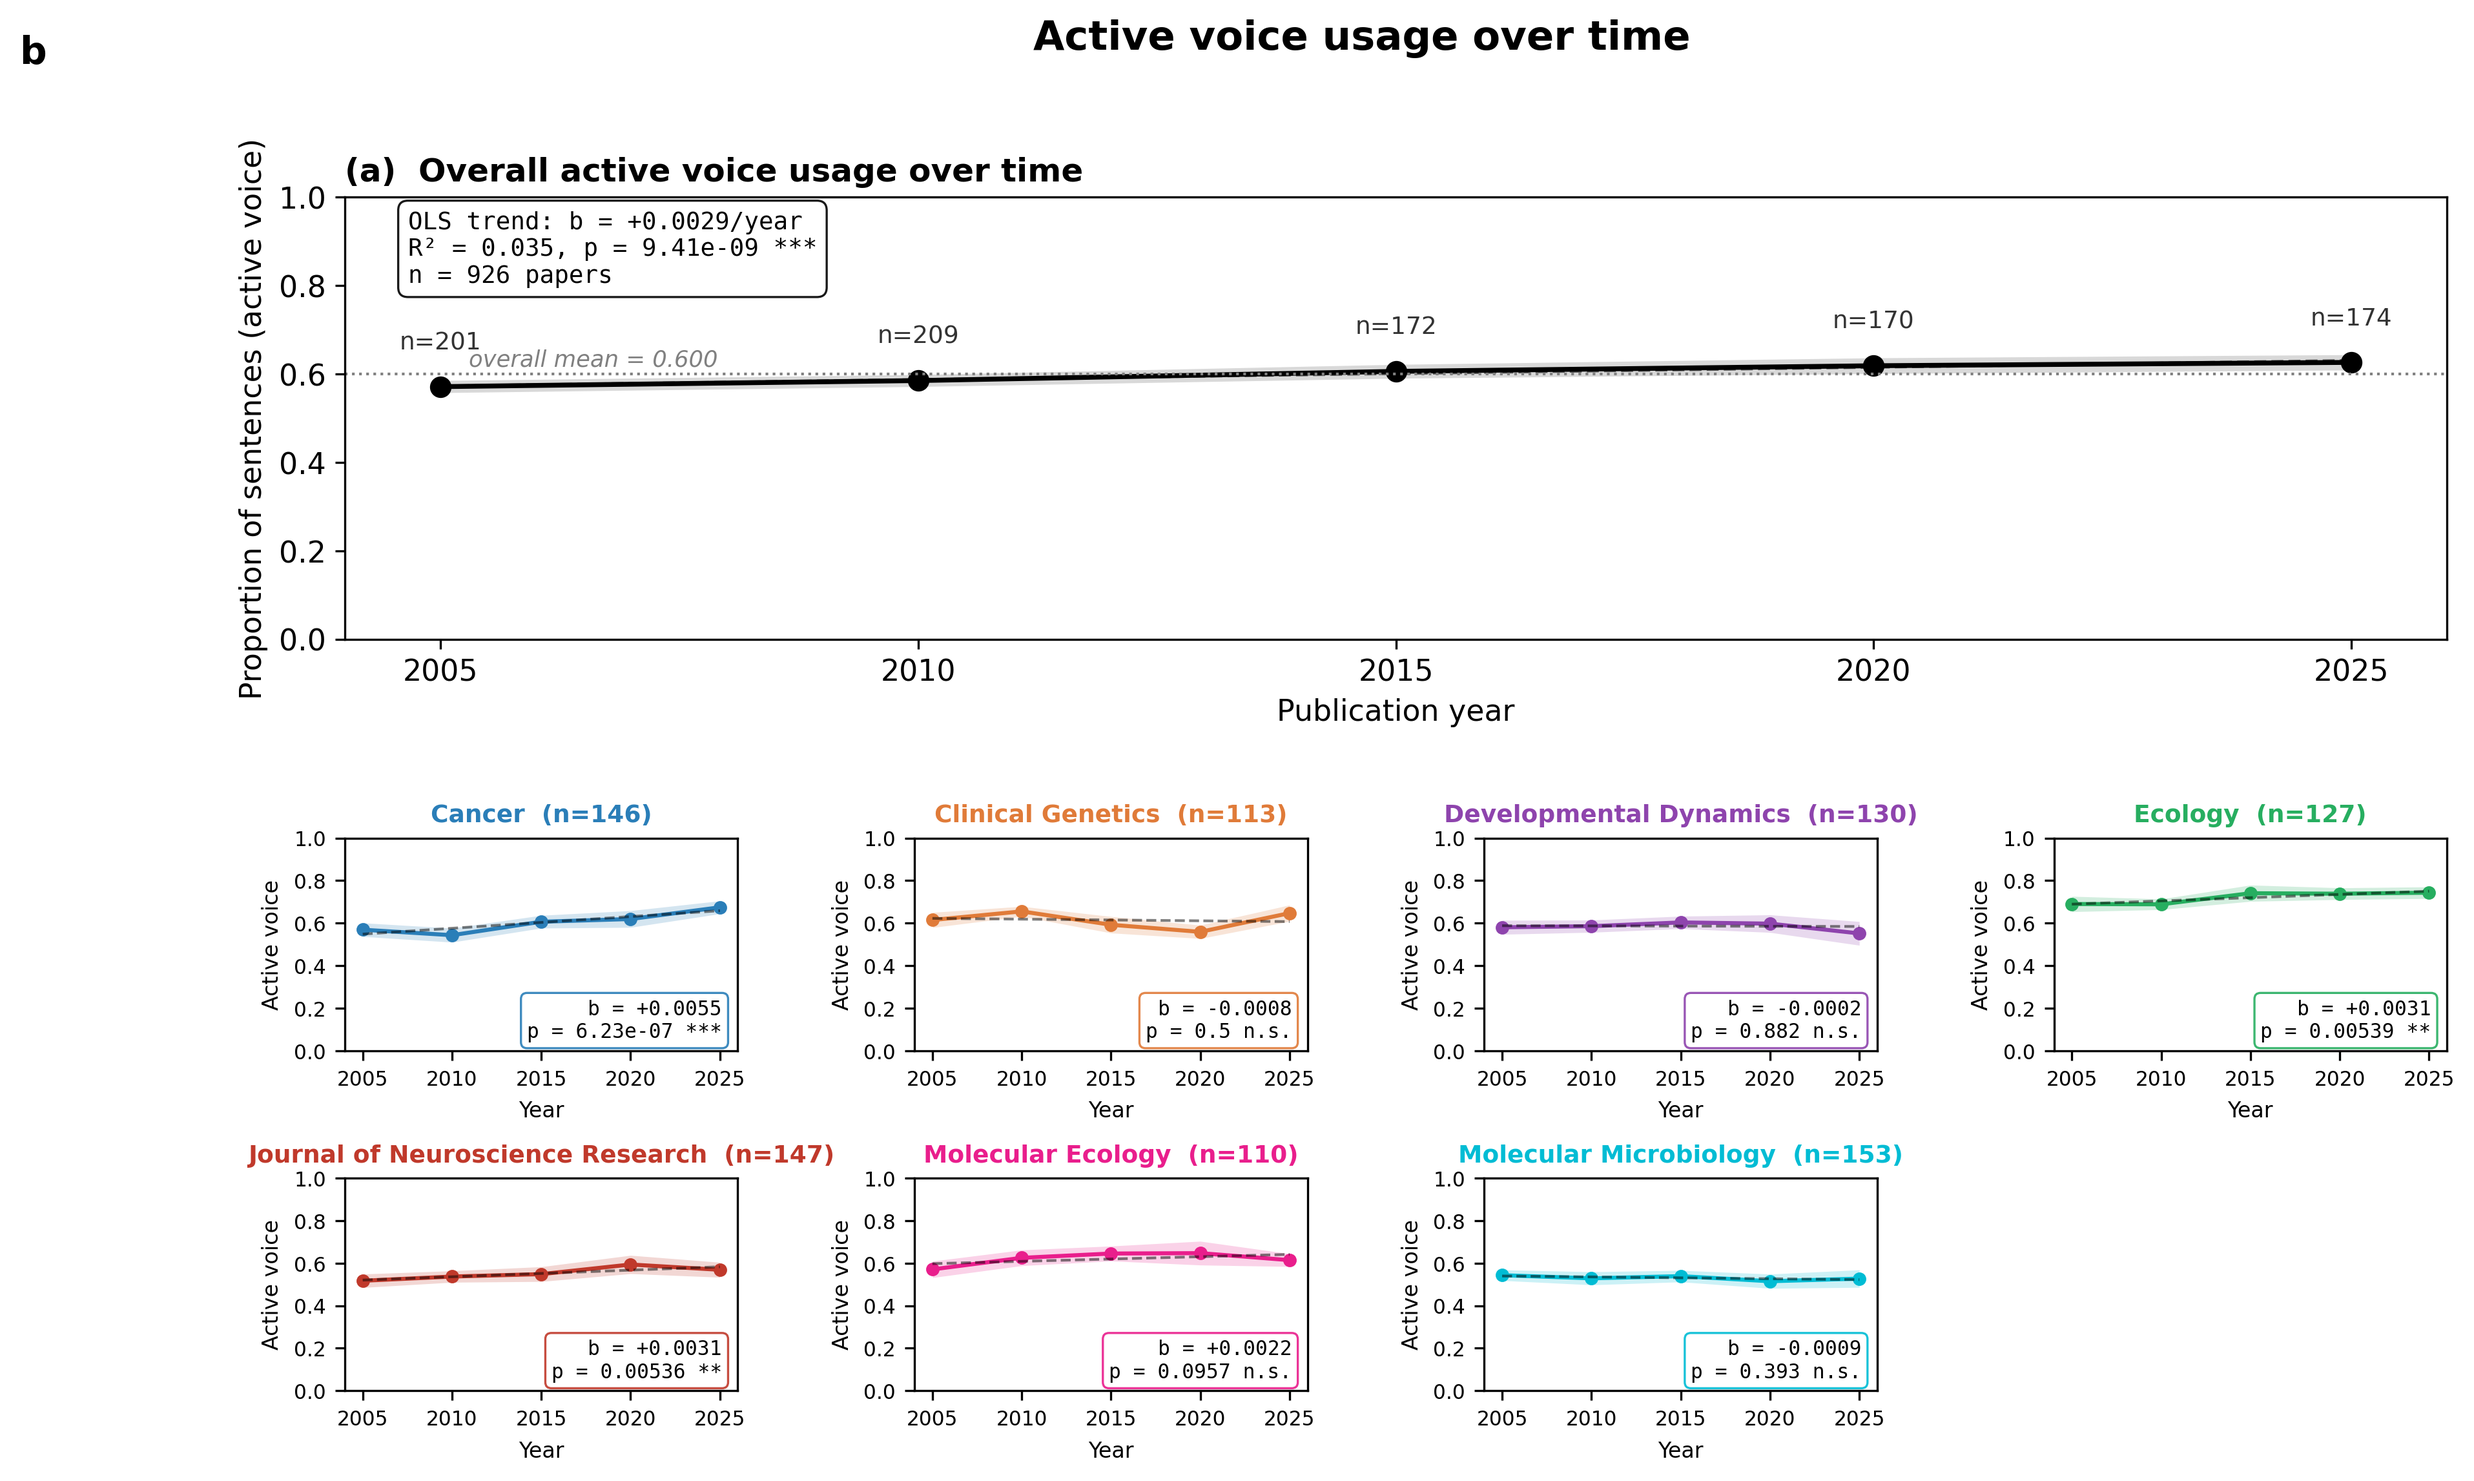
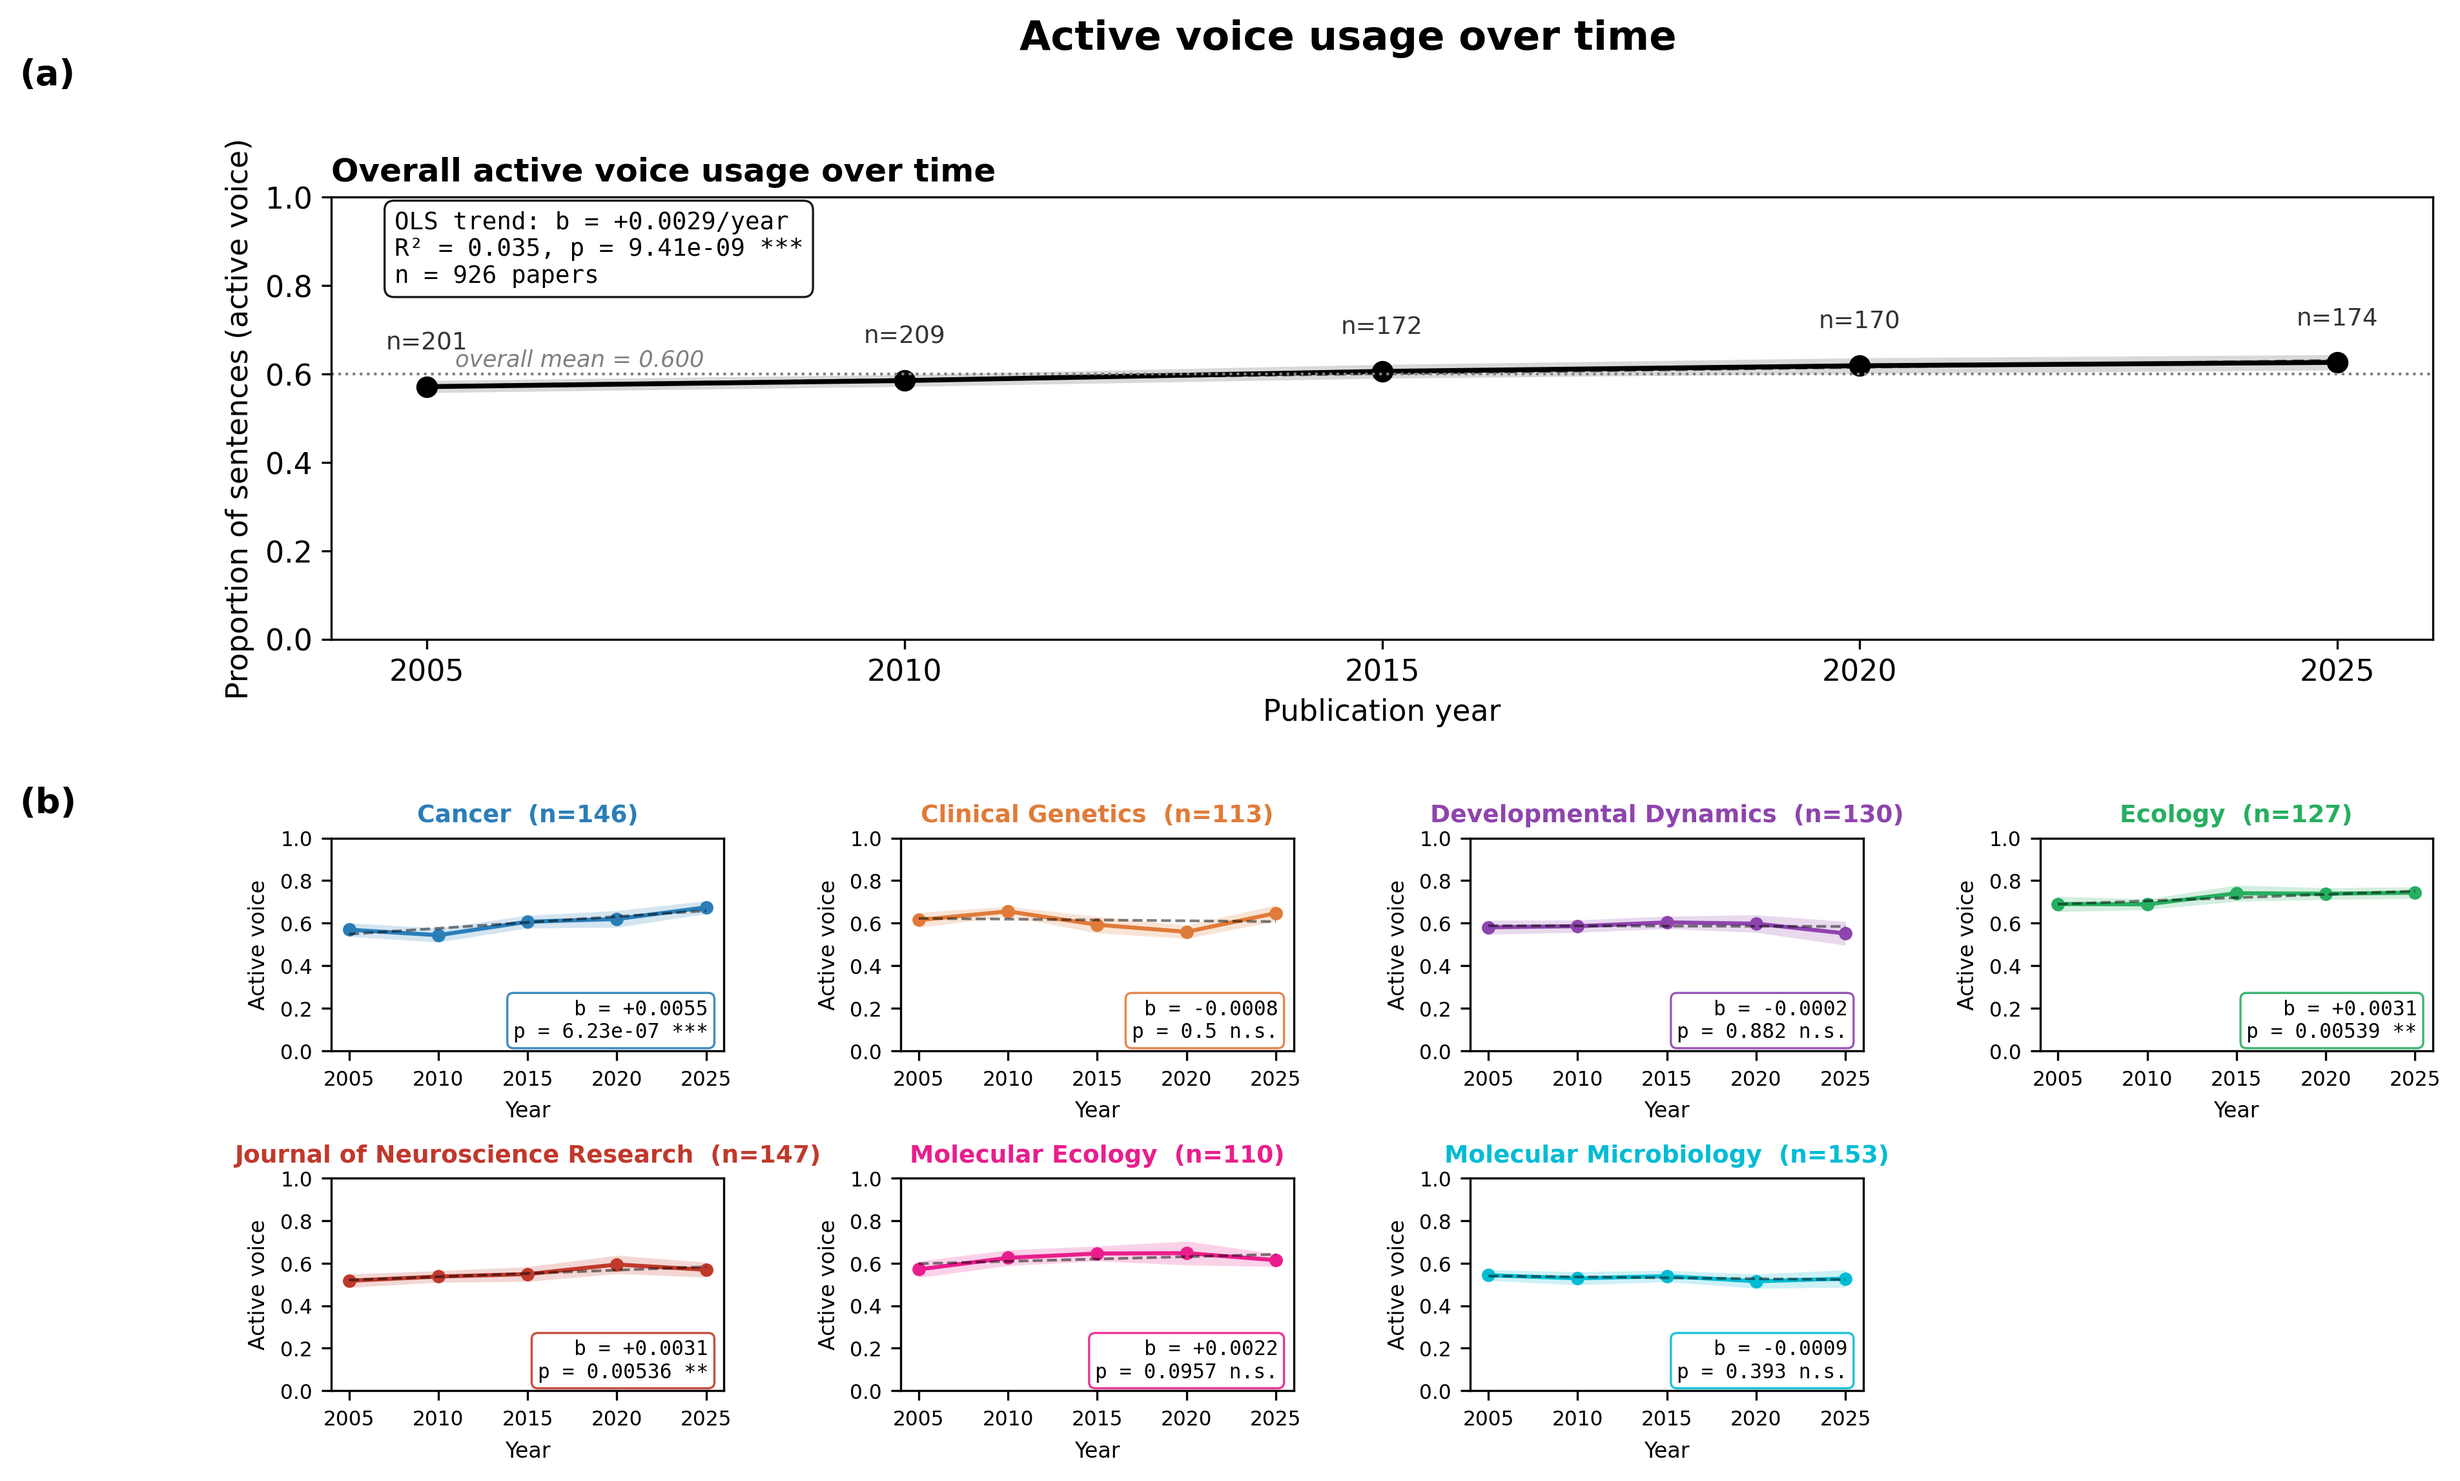
Add active-only Figure 1 and JIF-normalized Figure 3 scripts and outputs

diff --git a/scripts/make_fig3_jif_normalized.py b/scripts/make_fig3_jif_normalized.py
@@ -5,6 +5,7 @@
 # Reads from _github_original/analysis/master_with_jif.csv
 
 import os
+import re
 import numpy as np
 import pandas as pd
 import matplotlib
@@ -114,7 +115,7 @@ ax = fig.add_subplot(gs[0])
 slope, r2, p = scatter_fit(ax, df[ratio_col].values, df["jif_norm"].values, color="grey")
 ax.set_xlabel("Active voice score")
 ax.set_ylabel("JIF-normalized citations per year")
-ax.set_title(f"(a)  Overall (n = {len(df)})", loc="left", fontweight="bold", fontsize=11)
+ax.set_title(f"Overall (n = {len(df)})", loc="left", fontweight="bold", fontsize=12)
 
 # ---------- Panel (b): Per journal
 cols = 4
@@ -135,9 +136,12 @@ for i, j in enumerate(journals):
 for k in range(len(journals), rows * cols):
     fig.add_subplot(gs_b[k // cols, k % cols]).axis("off")
 
-fig.text(0.005, 0.98, "b", fontsize=13, fontweight="bold", va="top")
 
 out_path = os.path.join(OUT_DIR, "fig3_jif_normalized.png")
+fig.text(0.01, 0.97, "(a)", fontsize=13, fontweight="bold", va="top", ha="left")
+fig.text(0.01, 0.50, "(b)", fontsize=13, fontweight="bold", va="top", ha="left")
+
+fig.suptitle("JIF-normalized citations vs active voice score", fontsize=15, fontweight="bold", y=0.995)
 fig.savefig(out_path)
 plt.close(fig)
 print(f"Wrote {out_path}")

diff --git a/scripts/make_fig1_active_only.py b/scripts/make_fig1_active_only.py
@@ -96,7 +96,7 @@ ax.set_ylabel("Proportion of sentences (active voice)")
 ax.set_xlabel("Publication year")
 ax.set_xticks(sorted(df["year"].unique()))
 ax.set_ylim(0, 1)
-ax.set_title("(a)  Overall active voice usage over time", loc="left",
+ax.set_title("Overall active voice usage over time", loc="left",
              fontsize=12, fontweight="bold")
 
 # ---------- Panel (b): Per journal with significance
@@ -143,7 +143,8 @@ for i, j in enumerate(journals):
 for k in range(n_j, nrows * ncols):
     fig.add_subplot(gs_b[k // ncols, k % ncols]).axis("off")
 
-fig.text(0.005, 0.985, "b", fontsize=14, fontweight="bold", va="top")
+fig.text(0.01, 0.97, "(a)", fontsize=13, fontweight="bold", va="top", ha="left")
+fig.text(0.01, 0.50, "(b)", fontsize=13, fontweight="bold", va="top", ha="left")
 fig.suptitle("Active voice usage over time", fontsize=15, fontweight="bold", y=0.995)
 
 out_path = os.path.join(OUT_DIR, "fig1_active_only.png")
